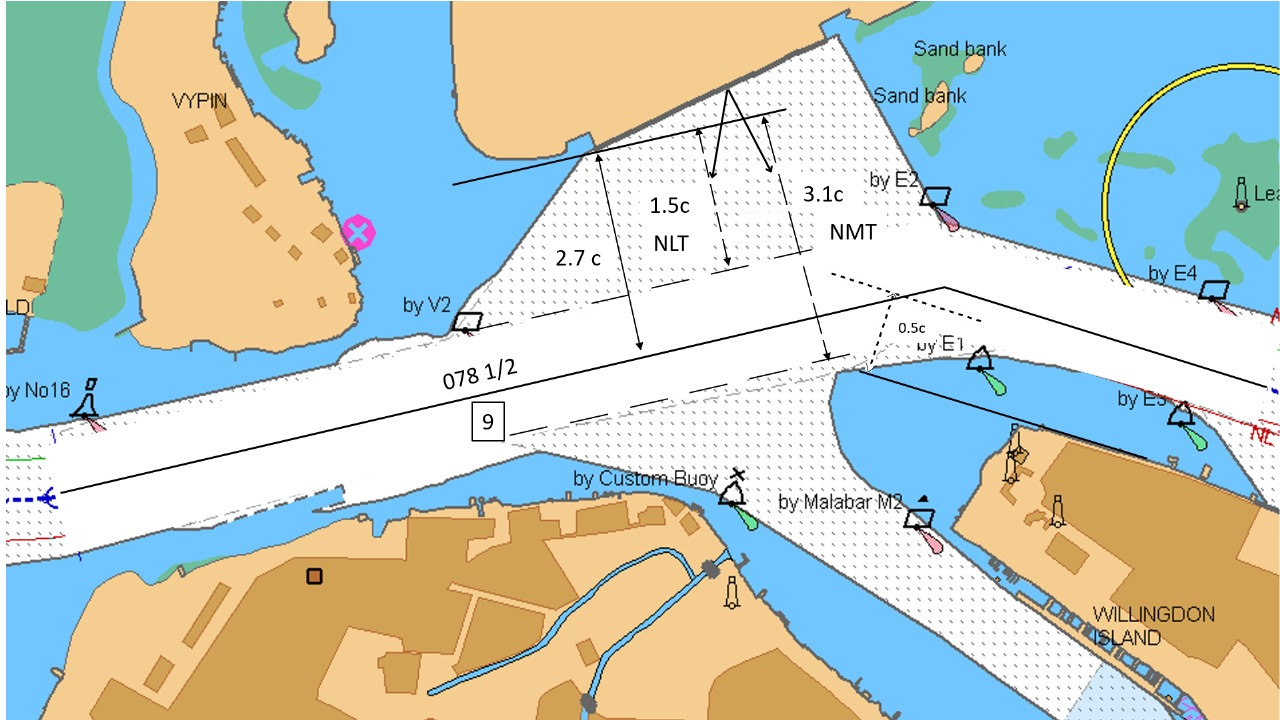
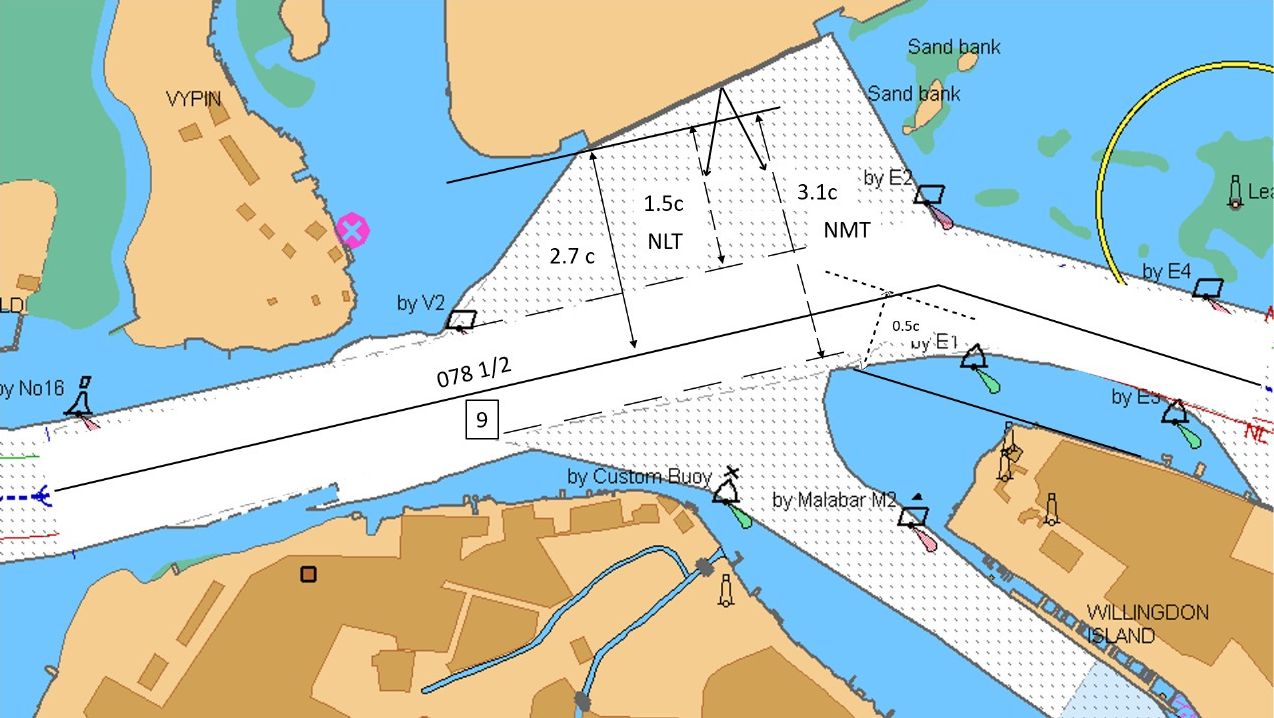
removed background edges

diff --git a/src/pages/MapWheelover.tsx b/src/pages/MapWheelover.tsx
@@ -36,7 +36,7 @@ export function MapWheelover() {
 
     return (
         <div className="relative overflow-hidden h-screen  text-2xl">
-        <img src="/images/wo2.png" className="absolute inset-0 w-full h-auto " alt="Background" />
+        <img src="/images/wo2.png" className="absolute inset-0 w-full h-full object-cover " alt="Background" />
     
             <div className="absolute left-0">
                 <AnimatedButton icon={<BackIcon/>} onclick={()=>{
